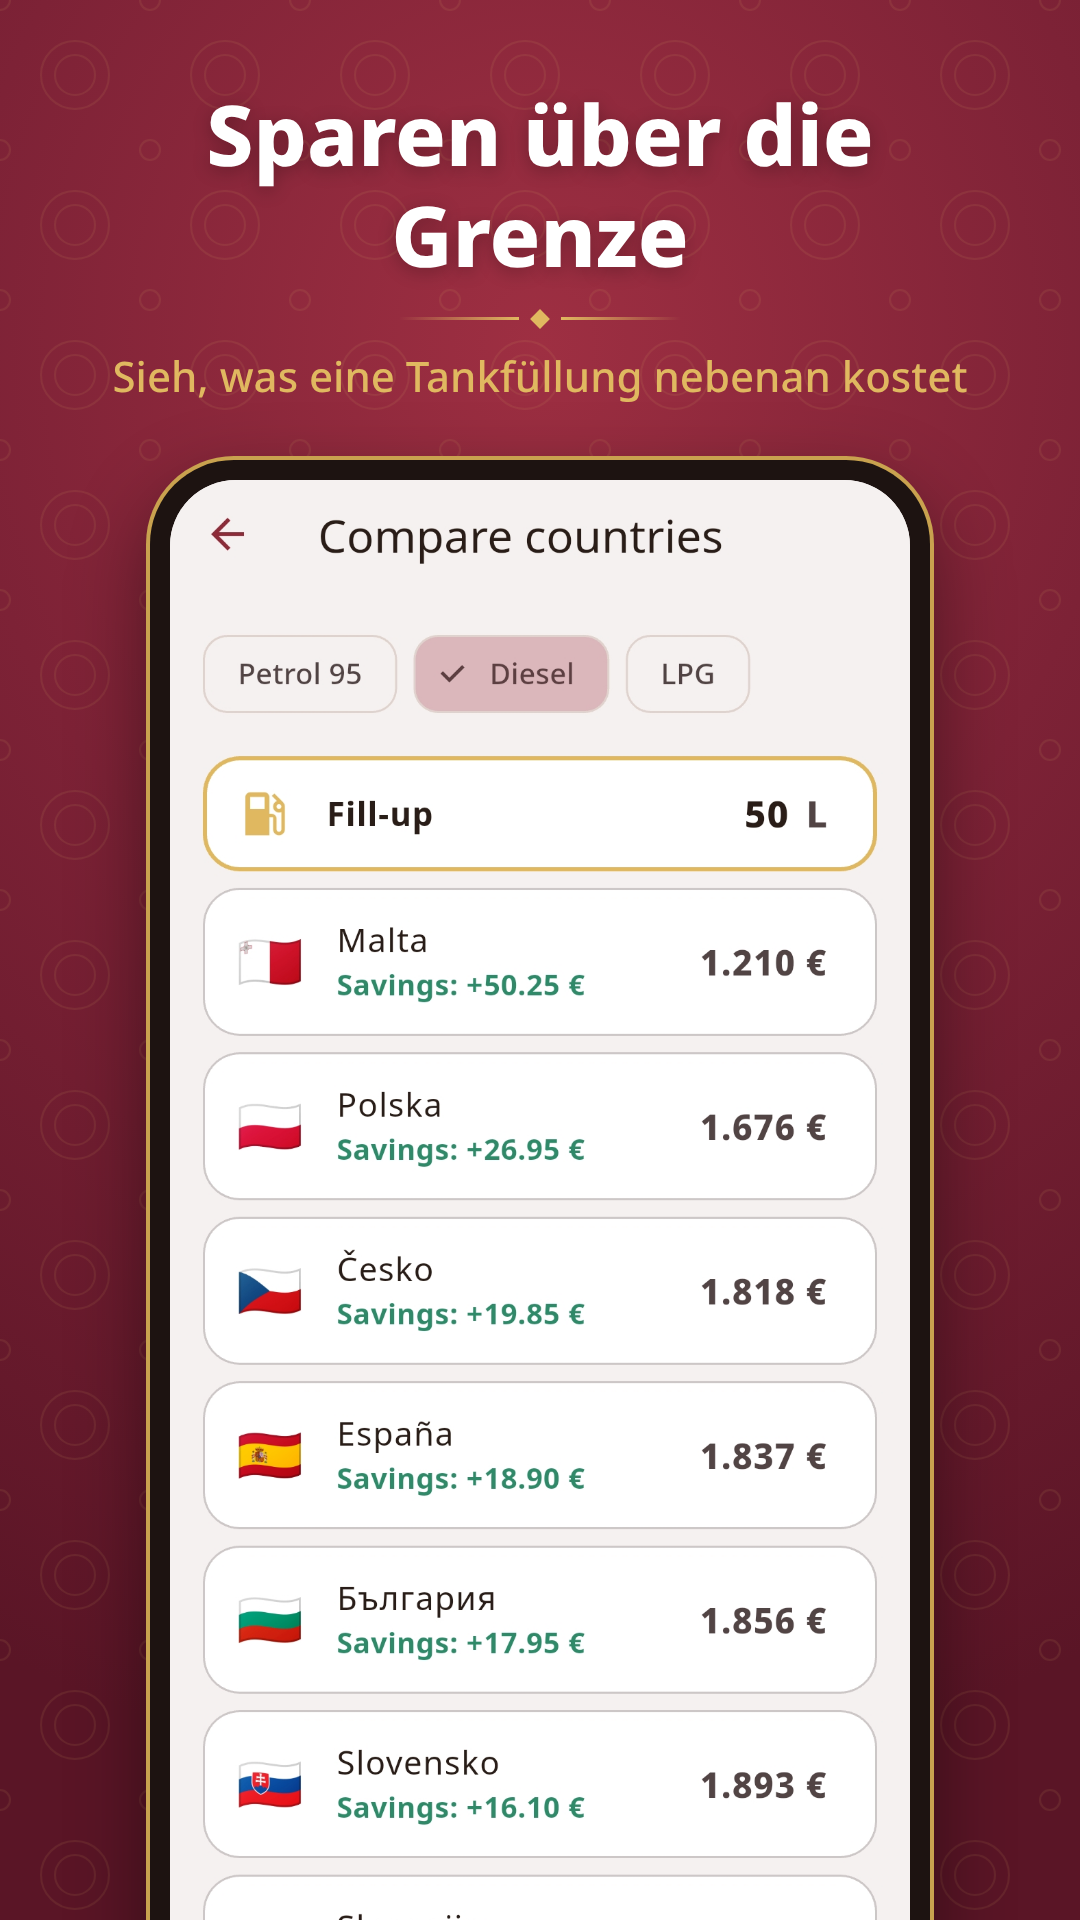
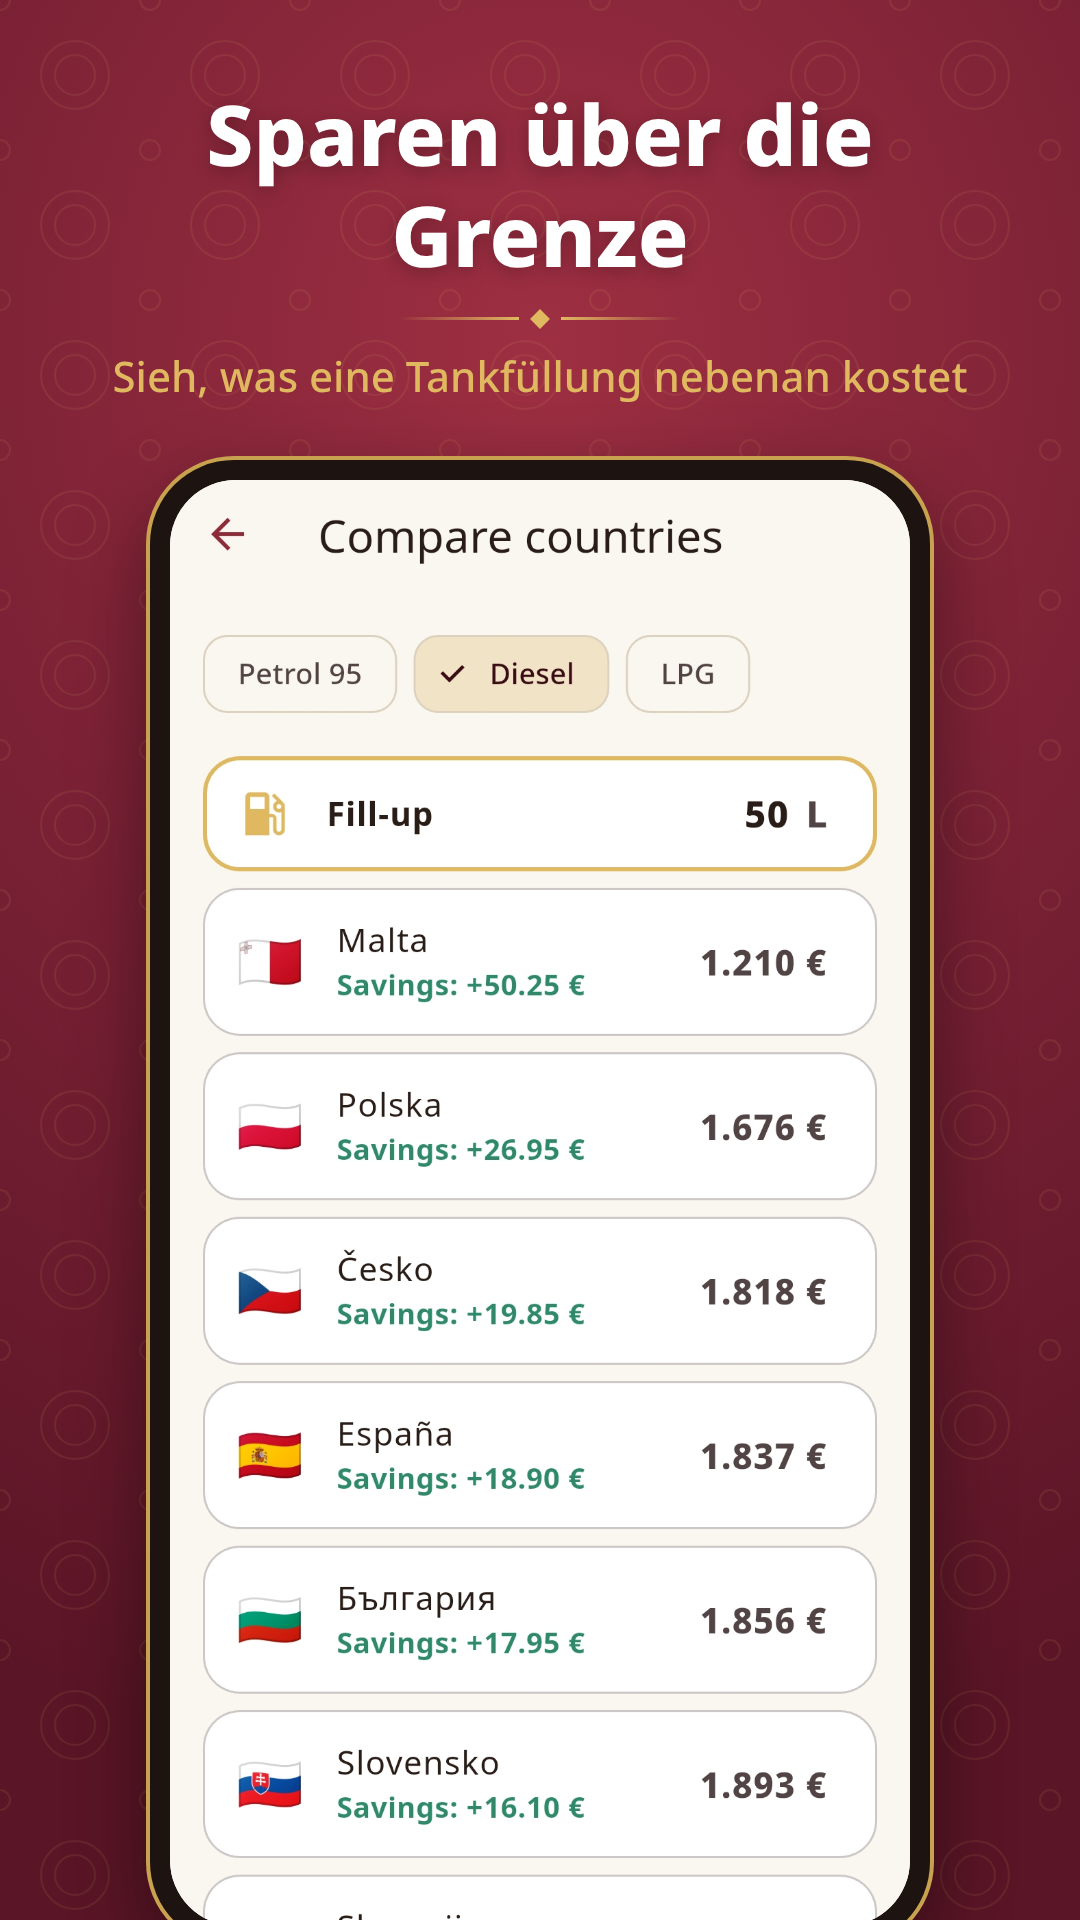
Store screenshots: milky UI, 5 per language, phone frame fits the shot
Claude-Session: https://claude.ai/code/session_01VzUUqgG7Ezdkqn6WCXmPfC

Changed region(s): [[0.3667, 0.3125, 0.5806, 0.375], [0.825, 0.9688, 0.8861, 1.0], [0.1222, 0.9688, 0.1833, 1.0]]

diff --git a/store/screenshots/make.js b/store/screenshots/make.js
@@ -20,9 +20,9 @@ h1{color:#fff;font-weight:800;font-size:${lang === "ar" ? 88 : 84}px;line-height
 .div i:last-child{transform:scaleX(-1)}
 .div b{width:14px;height:14px;background:#E0B860;transform:rotate(45deg)}
 p{color:#E0B860;font-weight:500;font-size:${lang === "ar" ? 44 : 42}px;line-height:1.35}
-.phone{margin:56px auto 0;width:780px;height:1600px;flex:none;border-radius:84px;background:#1d1311;padding:20px;
+.phone{margin:56px auto 0;width:780px;flex:none;border-radius:84px;background:#1d1311;padding:20px;
  box-shadow:0 0 0 4px #c9a24f,0 30px 80px rgba(0,0,0,.45)}
-.screen{width:100%;height:100%;border-radius:66px;overflow:hidden;background:#F5F1F0}
+.screen{width:100%;border-radius:66px;overflow:hidden;background:#F5F1F0}
 .screen img{width:100%;display:block}
 </style></head><body><div class="head"><h1>${title}</h1><div class="div"><i></i><b></b><i></i></div><p>${sub}</p></div>
 <div class="phone"><div class="screen"><img src="file://${path.join(dir, 'src', img + '.png')}"></div></div></body></html>`;
